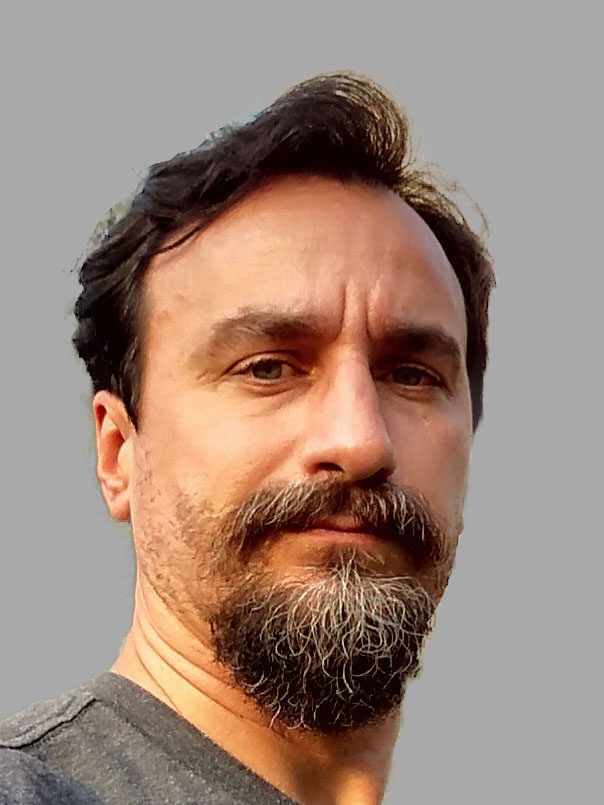
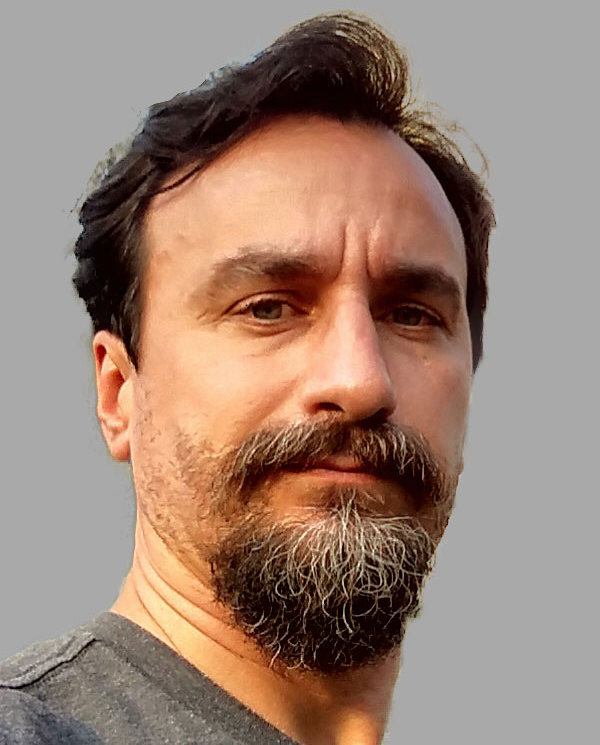
Fixing image sizes

diff --git a/default.js b/default.js
@@ -76,7 +76,7 @@
         return dayNames[now.getDay()];
     };
 
-    var css = "background-image: url('https://mutly.github.io/images/Leandro-R-Barbosa.jpg'); background-repeat: no-repeat; background-size: 205px 205px; border:1px #ccc solid; margin: 0; padding: 0 205px 205px 0; font-size: 0;";
+    var css = "background-image: url('https://mutly.github.io/images/Leandro-R-Barbosa.jpg'); background-repeat: no-repeat; background-size: 205px 255px; border:1px #ccc solid; margin: 0; padding: 0 205px 255px 0; font-size: 0;";
     console.log("%c", css);
 
     css = "font-size: 28px; color: #0055FF;";
